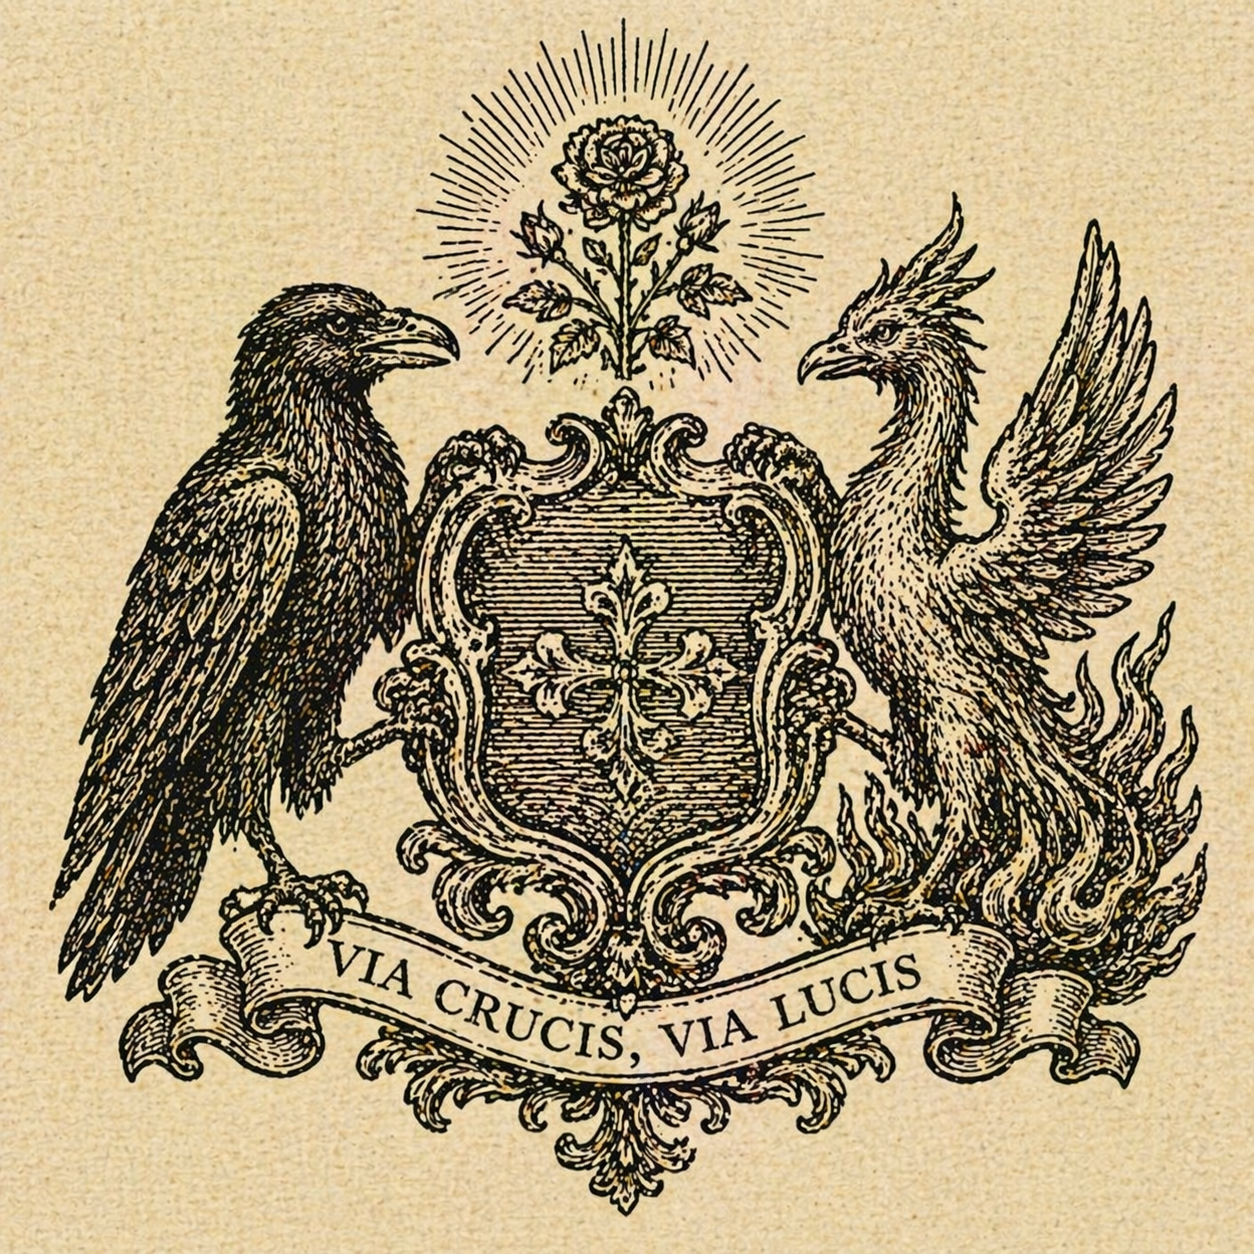
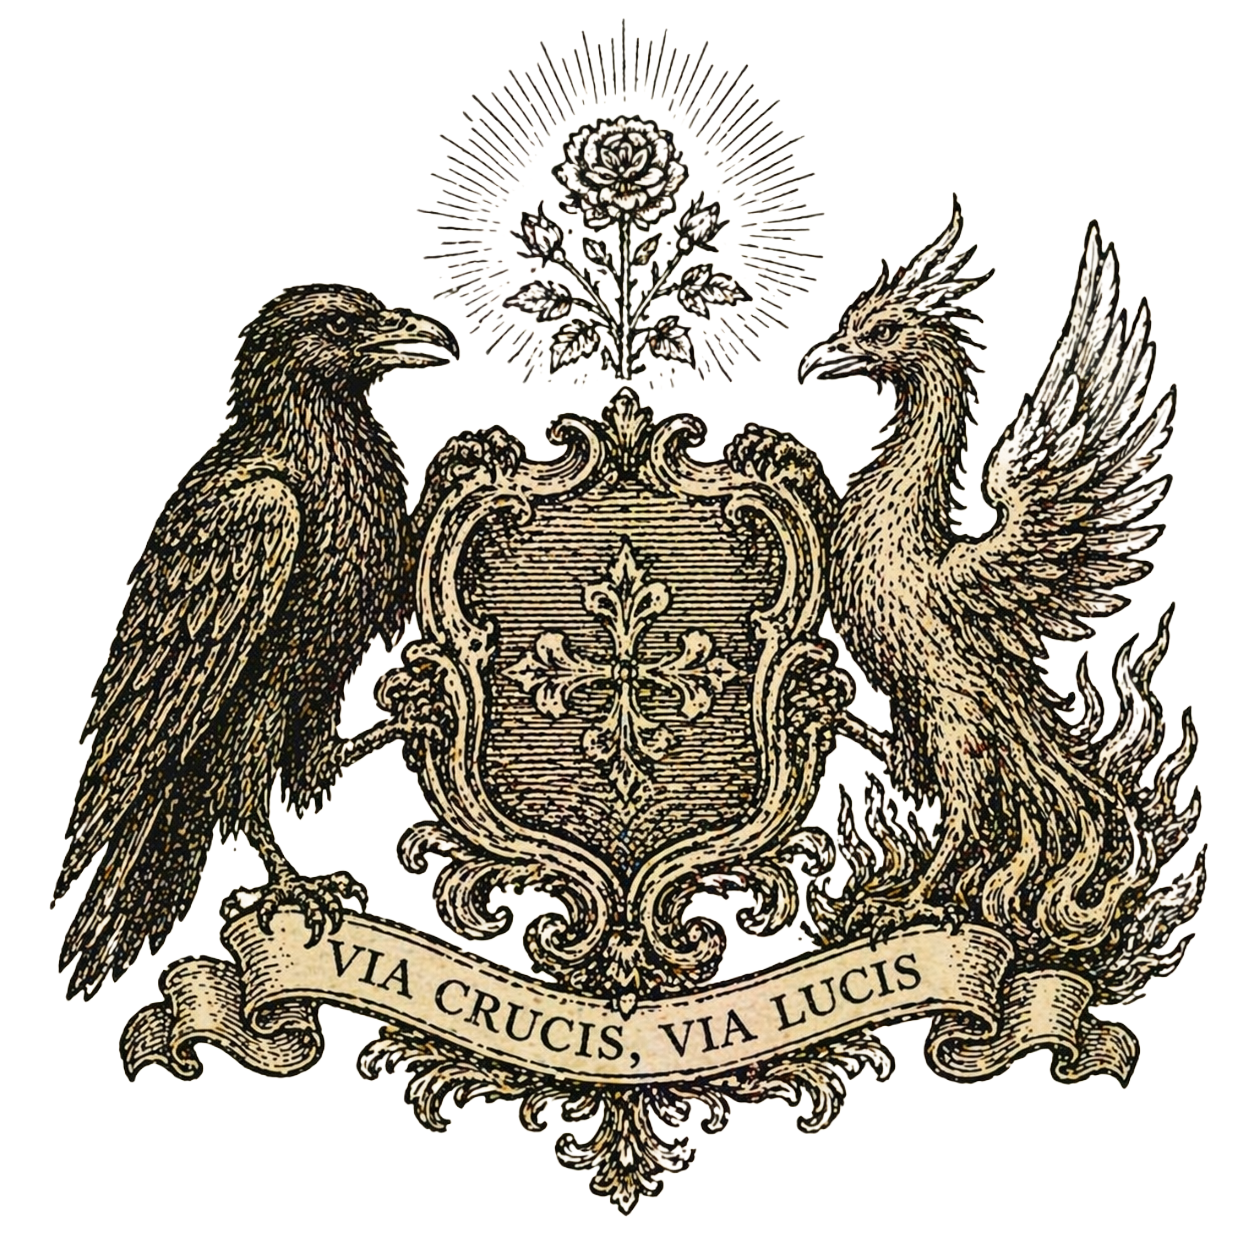
Fixed typos in TASK.md and removed background from select images

diff --git a/TASK.md b/TASK.md
@@ -710,6 +710,17 @@ Once all `images/works/` images are placed:
 
 ---
 
+## Task 4.4 — Adjust cards
+
+- On Hero, move name text above the image and move subtitle below the image. Remove the typographic symbol.
+- Replace the manuscript-portrait.png images with odd positioning, with red typographic symbols of your choice from IM Fell.
+- Replace Sweet Sophia, Holy Hokhmah card with About ME, linking to markbaldwin-smith.com, with a short description of my professional work. For the image, us manuscript-portrait.png and move the card to be first in the order.
+- Change the text for The Golden Thread to "Thirteen poems. One journey. Follow the thread." link to https://mbaldwinsmith.github.io/the_golden_thread/
+- Change Poetry Chapbook to Aurum Cordis, with the blurb: The Opus Magnum as Christian Way:
+Alchemy, Theology, and the Soul’s Transformation. Link to https://mbaldwinsmith.github.io/aurum-cordis/
+- Move The Kerygma Codex above Aurum Cordis. Blurb: A gentle, trauma-aware Christian grammar for spiritual healing, formation, and coherence repair. Link to: https://substack.com/@markbaldwinsmith
+- Chage Community Vison to Lifelong Pilgrimage
+
 ## PHASE 5 — REVIEW & REFINEMENT
 
 ### Task 5.1 — Cross-browser and responsive review checklist
